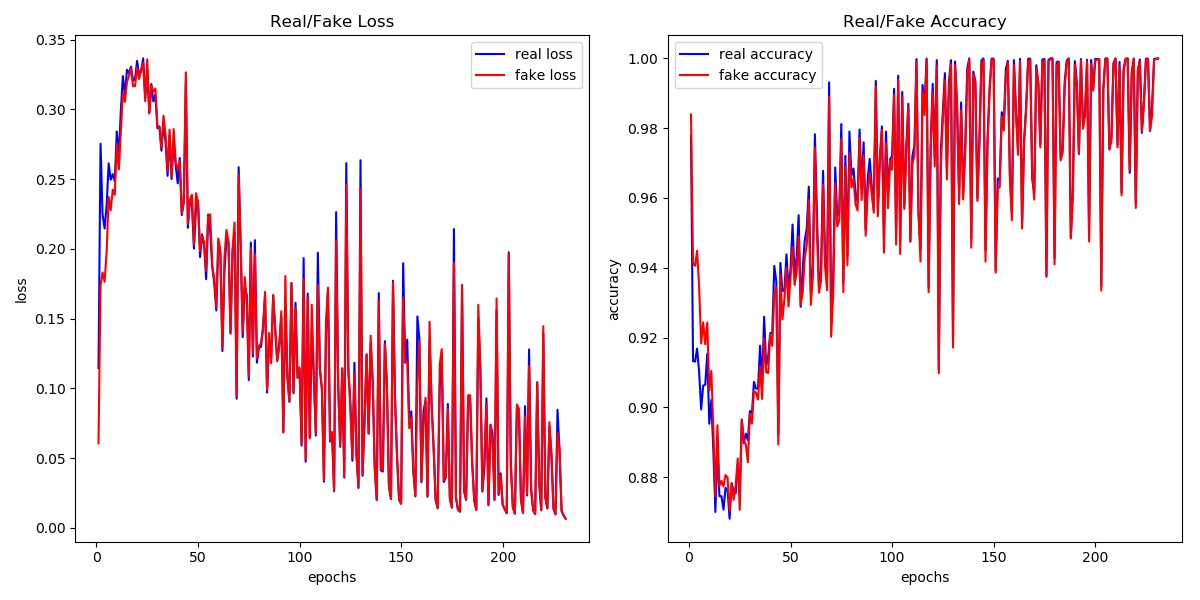
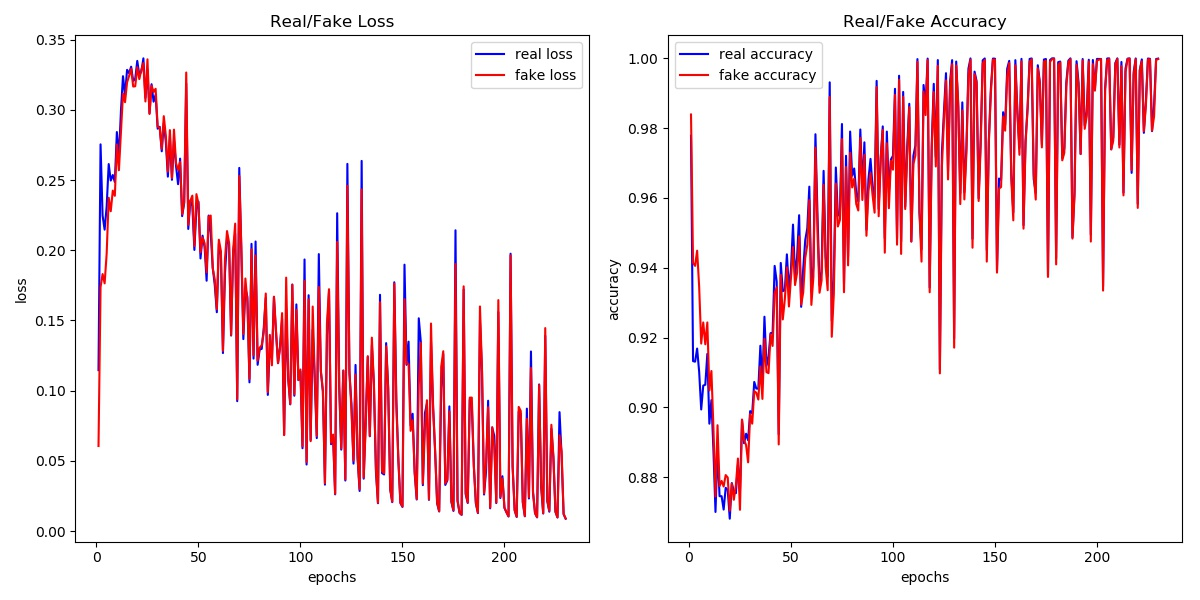
acgan hyperparameter tuning

diff --git a/hw4/trainer/acgan_trainer.py b/hw4/trainer/acgan_trainer.py
@@ -34,15 +34,15 @@ class ACGANtrainer:
                                         ]))
         self.train_data_loader = DataLoader(dataset=self.train_dataset,
                                             batch_size=self.args.batch_size,
-                                            shuffle=False)
+                                            shuffle=True)
 
     def __build_model(self):
         self.g_model = ACGANGenerator().cuda() if self.with_cuda else ACGANGenerator()
         self.d_model = ACGANDiscriminator().cuda() if self.with_cuda else ACGANDiscriminator()
         self.label_criterion = nn.BCELoss()
         self.class_criterion = nn.BCELoss()
-        self.g_optimizer = Adam(self.g_model.parameters(), lr=0.0001, betas=(0.5, 0.999))
-        self.d_optimizer = Adam(self.d_model.parameters(), lr=0.0001, betas=(0.5, 0.999))
+        self.g_optimizer = Adam(self.g_model.parameters(), lr=0.0002, betas=(0.5, 0.999))
+        self.d_optimizer = Adam(self.d_model.parameters(), lr=0.0002, betas=(0.5, 0.999))
 
     def train(self):
         for epoch in range(1, self.args.epochs + 1):
@@ -51,65 +51,65 @@ class ACGANtrainer:
             real_total_acc, fake_total_acc = 0, 0
             for batch_idx, (in_fig, target_classes) in enumerate(self.train_data_loader):
                 batch_size = in_fig.size()[0]
-                x, y = Variable(in_fig), Variable(target_classes)
+                x, y = Variable(in_fig), Variable(target_classes[:, 9])  # 9: Smiling
                 # labels
                 real_labels, fake_labels = Variable(torch.ones(batch_size)), Variable(torch.zeros(batch_size))
 
                 if self.with_cuda:
                     x, y, real_labels, fake_labels = x.cuda(), y.cuda(), real_labels.cuda(), fake_labels.cuda()
 
-                """
-                    Train on Discriminator
-                """
-                self.d_model.zero_grad()
-                # discriminator on real data
-                real_output, real_output_classes = self.d_model(x)
-                real_output, real_output_classes = real_output.squeeze(), real_output_classes.squeeze()
-                real_label_loss = self.label_criterion(real_output, real_labels)
-                real_classes_loss = self.class_criterion(real_output_classes, y)
-                real_accuracy = np.mean((real_output > 0.5).cpu().data.numpy())
+                for _ in range(2):
+                    """
+                        Train on Discriminator
+                    """
+                    # discriminator on real data
+                    real_output, real_output_classes = self.d_model(x)
+                    real_output, real_output_classes = real_output.squeeze(), real_output_classes.squeeze()
+                    real_label_loss = self.label_criterion(real_output, real_labels)
+                    real_classes_loss = self.class_criterion(real_output_classes, y)
+                    real_accuracy = np.mean((real_output > 0.5).cpu().data.numpy())
+                    real_classes_acc = np.mean((real_output_classes > 0.5).cpu().data.numpy() == y.cpu().data.numpy())
+                    real_loss = real_label_loss + real_classes_loss
 
-                # Back propagation
-                real_loss = real_label_loss + real_classes_loss
-                real_loss.backward()
+                    # discriminator on fake data
+                    noise = torch.randn(batch_size, 100)
+                    random_fake_classes = np.random.randint(2, size=(batch_size, 1))
+                    fake_classes = torch.FloatTensor(random_fake_classes)
+                    noise = torch.cat((noise, fake_classes), dim=1)
+                    noise = Variable(noise).cuda() if self.with_cuda else Variable(noise)
+                    fake_classes = Variable(fake_classes).cuda() if self.with_cuda else Variable(fake_classes)
+                    image_gen = self.g_model(noise)
 
-                # discriminator on fake data
+                    fake_output, fake_output_classes = self.d_model(image_gen)
+                    fake_output, fake_output_classes = fake_output.squeeze(), fake_output_classes.squeeze()
+                    fake_label_loss = self.label_criterion(fake_output, fake_labels)
+                    fake_classes_loss = self.class_criterion(fake_output_classes, fake_classes.squeeze())
+                    fake_accuracy = np.mean((fake_output < 0.5).cpu().data.numpy())
+                    fake_loss = fake_label_loss + fake_classes_loss
+
+                    # Back propagation
+                    d_loss = real_loss + fake_loss
+                    self.d_model.zero_grad()
+                    d_loss.backward()
+                    self.d_optimizer.step()
+
+                """
+                    Train on Generator
+                """
                 noise = torch.randn(batch_size, 100)
-                random_fake_classes = np.random.randint(2, size=(batch_size, 13))
+                random_fake_classes = np.random.randint(2, size=(batch_size, 1))
                 fake_classes = torch.FloatTensor(random_fake_classes)
                 noise = torch.cat((noise, fake_classes), dim=1)
-                noise = Variable(noise).cuda() if self.with_cuda else Variable(noise).cuda()
+                noise = Variable(noise).cuda() if self.with_cuda else Variable(noise)
                 fake_classes = Variable(fake_classes).cuda() if self.with_cuda else Variable(fake_classes)
                 image_gen = self.g_model(noise)
 
                 fake_output, fake_output_classes = self.d_model(image_gen)
                 fake_output, fake_output_classes = fake_output.squeeze(), fake_output_classes.squeeze()
-                fake_label_loss = self.label_criterion(fake_output, fake_labels)
-                fake_classes_loss = self.class_criterion(fake_output_classes, fake_classes.squeeze())
-                fake_accuracy = np.mean((fake_output < 0.5).cpu().data.numpy())
-
-                # Back propagation
-                fake_loss = fake_label_loss + fake_classes_loss
-                fake_loss.backward()
-                d_loss = real_label_loss + fake_label_loss
-                self.d_optimizer.step()
-
-                """
-                    Train on Generator
-                """
-                self.g_model.zero_grad()
-                noise = torch.randn(batch_size, 100)
-                random_fake_classes = np.random.randint(2, size=(batch_size, 13))
-                fake_classes = torch.FloatTensor(random_fake_classes)
-                noise = torch.cat((noise, fake_classes), dim=1)
-                noise = Variable(noise).cuda() if self.with_cuda else Variable(noise).cuda()
-                image_gen = self.g_model(noise)
-
-                fake_output, fake_output_classes = self.d_model(image_gen)
-                fake_output, fake_output_classes = fake_output.squeeze(), fake_output_classes.squeeze()
                 g_label_loss = self.label_criterion(fake_output, real_labels)
-                g_class_loss = self.class_criterion(fake_output_classes, y)
+                g_class_loss = self.class_criterion(fake_output_classes, fake_classes.squeeze())
 
+                self.g_model.zero_grad()
                 g_loss = g_label_loss + g_class_loss
                 g_loss.backward()
                 self.g_optimizer.step()

diff --git a/hw4/models/modules.py b/hw4/models/modules.py
@@ -155,18 +155,8 @@ class GANGenerator(nn.Module):
 class ACGANGenerator(nn.Module):
     def __init__(self):
         super(ACGANGenerator, self).__init__()
-        """
-        self.fc = nn.Sequential(
-            nn.Linear(self.latent_size+self.attr_size, 1024),
-            nn.BatchNorm2d(1024),
-            nn.ReLU(inplace=True)
-        )
-        """
         self.model = nn.Sequential(
-            nn.ConvTranspose2d(113, 1024, kernel_size=4, stride=1, padding=0, bias=False),
-            nn.BatchNorm2d(1024),
-            nn.ReLU(inplace=True),
-            nn.ConvTranspose2d(1024, 512, kernel_size=4, stride=2, padding=1, bias=False),
+            nn.ConvTranspose2d(101, 512, kernel_size=4, stride=1, padding=0, bias=False),
             nn.BatchNorm2d(512),
             nn.ReLU(inplace=True),
             nn.ConvTranspose2d(512, 256, kernel_size=4, stride=2, padding=1, bias=False),
@@ -175,7 +165,10 @@ class ACGANGenerator(nn.Module):
             nn.ConvTranspose2d(256, 128, kernel_size=4, stride=2, padding=1, bias=False),
             nn.BatchNorm2d(128),
             nn.ReLU(inplace=True),
-            nn.ConvTranspose2d(128, 3, kernel_size=4, stride=2, padding=1, bias=False),
+            nn.ConvTranspose2d(128, 64, kernel_size=4, stride=2, padding=1, bias=False),
+            nn.BatchNorm2d(64),
+            nn.ReLU(inplace=True),
+            nn.ConvTranspose2d(64, 3, kernel_size=4, stride=2, padding=1, bias=False),
             nn.Tanh()
         )
 
@@ -186,7 +179,7 @@ class ACGANGenerator(nn.Module):
                     m.bias.data.zero_()
 
     def forward(self, noise):
-        noise = noise.view(-1, 113, 1, 1)
+        noise = noise.view(-1, 101, 1, 1)
         output = self.model(noise)
         return output
 
@@ -196,7 +189,6 @@ class ACGANDiscriminator(nn.Module):
         super(ACGANDiscriminator, self).__init__()
         self.model = nn.Sequential(
             nn.Conv2d(3, 64, kernel_size=4, stride=2, padding=1, bias=False),
-            nn.BatchNorm2d(64),
             nn.LeakyReLU(0.2, inplace=True),
             nn.Conv2d(64, 128, kernel_size=4, stride=2, padding=1, bias=False),
             nn.BatchNorm2d(128),
@@ -207,17 +199,15 @@ class ACGANDiscriminator(nn.Module):
             nn.Conv2d(256, 512, kernel_size=4, stride=2, padding=1, bias=False),
             nn.BatchNorm2d(512),
             nn.LeakyReLU(0.2, inplace=True),
-            nn.Conv2d(512, 1024, kernel_size=4, stride=1, padding=0, bias=False),
-            nn.BatchNorm2d(1024),
-            nn.LeakyReLU(0.2, inplace=True)
+            nn.Conv2d(512, 64, kernel_size=4, stride=1, padding=0, bias=False),
         )
         self.output = nn.Sequential(
-            nn.Conv2d(1024, 1, kernel_size=4, stride=1, padding=0, bias=False),
+            nn.Linear(64, 1),
             nn.Sigmoid()
         )
 
         self.classifier = nn.Sequential(
-            nn.Conv2d(1024, 13, kernel_size=4, stride=1, padding=0, bias=False),
+            nn.Linear(64, 1),
             nn.Sigmoid()
         )
 
@@ -229,8 +219,8 @@ class ACGANDiscriminator(nn.Module):
 
     def forward(self, x):
         hidden = self.model(x)
-        output = self.output(hidden)
-        classes = self.classifier(hidden)
+        output = self.output(hidden.squeeze())
+        classes = self.classifier(hidden.squeeze())
         return output, classes
 
 
@@ -303,7 +293,7 @@ class INFOGANDiscriminator(nn.Module):
                     m.bias.data.zero_()
 
     def forward(self, x):
-        hidden = self.model(x)
+        hidden = self.model(x).view(-1, 1024)
         output = self.output(hidden)
         classes = self.classifier(hidden)
         return output, classes

diff --git a/hw4/acgan_inference.py b/hw4/acgan_inference.py
@@ -11,20 +11,21 @@ import os
 
 
 def main(args):
-    torch.manual_seed(1)
+    torch.manual_seed(1337)
 
     output_file = os.path.join(args.output_file)
     if not os.path.exists(output_file):
         os.makedirs(output_file)
 
     if not os.path.exists(args.checkpoint):
-        return "{} not exists".format(args.checkpoint)
+        print("{} not exists".format(args.checkpoint))
+        return
 
     # gpu configuration
     with_cuda = not args.no_cuda
 
     checkpoint = torch.load(args.checkpoint)
-    g_model = ACGANGenerator().cuda() if with_cuda else ACGANDiscriminator()
+    g_model = ACGANGenerator().cuda() if with_cuda else ACGANGenerator()
     d_model = ACGANDiscriminator().cuda() if with_cuda else ACGANDiscriminator()
     g_model.load_state_dict(checkpoint['state_dict'][0])
     d_model.load_state_dict(checkpoint['state_dict'][1])
@@ -37,16 +38,13 @@ def main(args):
     noise = torch.randn(10, 100).view(-1, 100, 1, 1)
 
     # random classify
-    classes_no_smile = np.random.randint(0, 1, size=(10, 13))
-    classes_with_smile = np.copy(classes_no_smile)
-
     # for no smiling
-    classes_no_smile[:, 9] = 0
-    classes_no_smile = torch.FloatTensor(classes_no_smile)
+    classes_no_smile = np.zeros((10, 1))
+    classes_no_smile = torch.FloatTensor(classes_no_smile).view(-1, 1, 1, 1)
 
     # for smiling
-    classes_with_smile[:, 9] = 1
-    classes_with_smile = torch.FloatTensor(classes_with_smile)
+    classes_with_smile = np.ones((10, 1))
+    classes_with_smile = torch.FloatTensor(classes_with_smile).view(-1, 1, 1, 1)
 
     noise1 = torch.cat((noise, classes_no_smile), dim=1)
     noise1 = Variable(noise1).cuda() if with_cuda else Variable(noise1)
@@ -61,7 +59,7 @@ def main(args):
     result = torch.cat((fake_image1.data, fake_image2.data), dim=0)
 
     filename = os.path.join(output_file, 'fig3_3.jpg')
-    torchvision.utils.save_image(result.data, filename, nrow=10)
+    torchvision.utils.save_image(result, filename, nrow=10)
 
     # 3-2
     print("Saving loss figure......")
@@ -102,9 +100,8 @@ if __name__ == '__main__':
     parser.add_argument('--output-file', default='saved/acgan',
                         help='output data directory')
     parser.add_argument('--checkpoint',
-                        default='checkpoints/acgan/epoch10_checkpoint.pth.tar',
+                        default='checkpoints/acgan/epoch300_checkpoint.pth.tar',
                         help='load checkpoint')
     parser.add_argument('--no-cuda', action='store_true',
                         help='use CPU in case there\'s no GPU support')
     main(parser.parse_args())
-

diff --git a/hw4/vae_inference.py b/hw4/vae_inference.py
@@ -21,7 +21,8 @@ def main(args):
         os.makedirs(output_file)
 
     if not os.path.exists(args.checkpoint):
-        return "{} not exists".format(args.checkpoint)
+        print("{} not exists".format(args.checkpoint))
+        return
 
     # gpu configuration
     with_cuda = not args.no_cuda
@@ -91,7 +92,7 @@ def main(args):
     predict = decoder(noise)
     predict = predict.mul(0.5).add_(0.5)
 
-    filename = os.path.join(output_file ,'fig1_4.jpg')
+    filename = os.path.join(output_file, 'fig1_4.jpg')
     torchvision.utils.save_image(predict.data, filename, nrow=8)
 
     # 1-5

diff --git a/hw4/gan_inference.py b/hw4/gan_inference.py
@@ -17,7 +17,8 @@ def main(args):
         os.makedirs(output_file)
 
     if not os.path.exists(args.checkpoint):
-        return "{} not exists".format(args.checkpoint)
+        print("{} not exists".format(args.checkpoint))
+        return
 
     # gpu configuration
     with_cuda = not args.no_cuda
